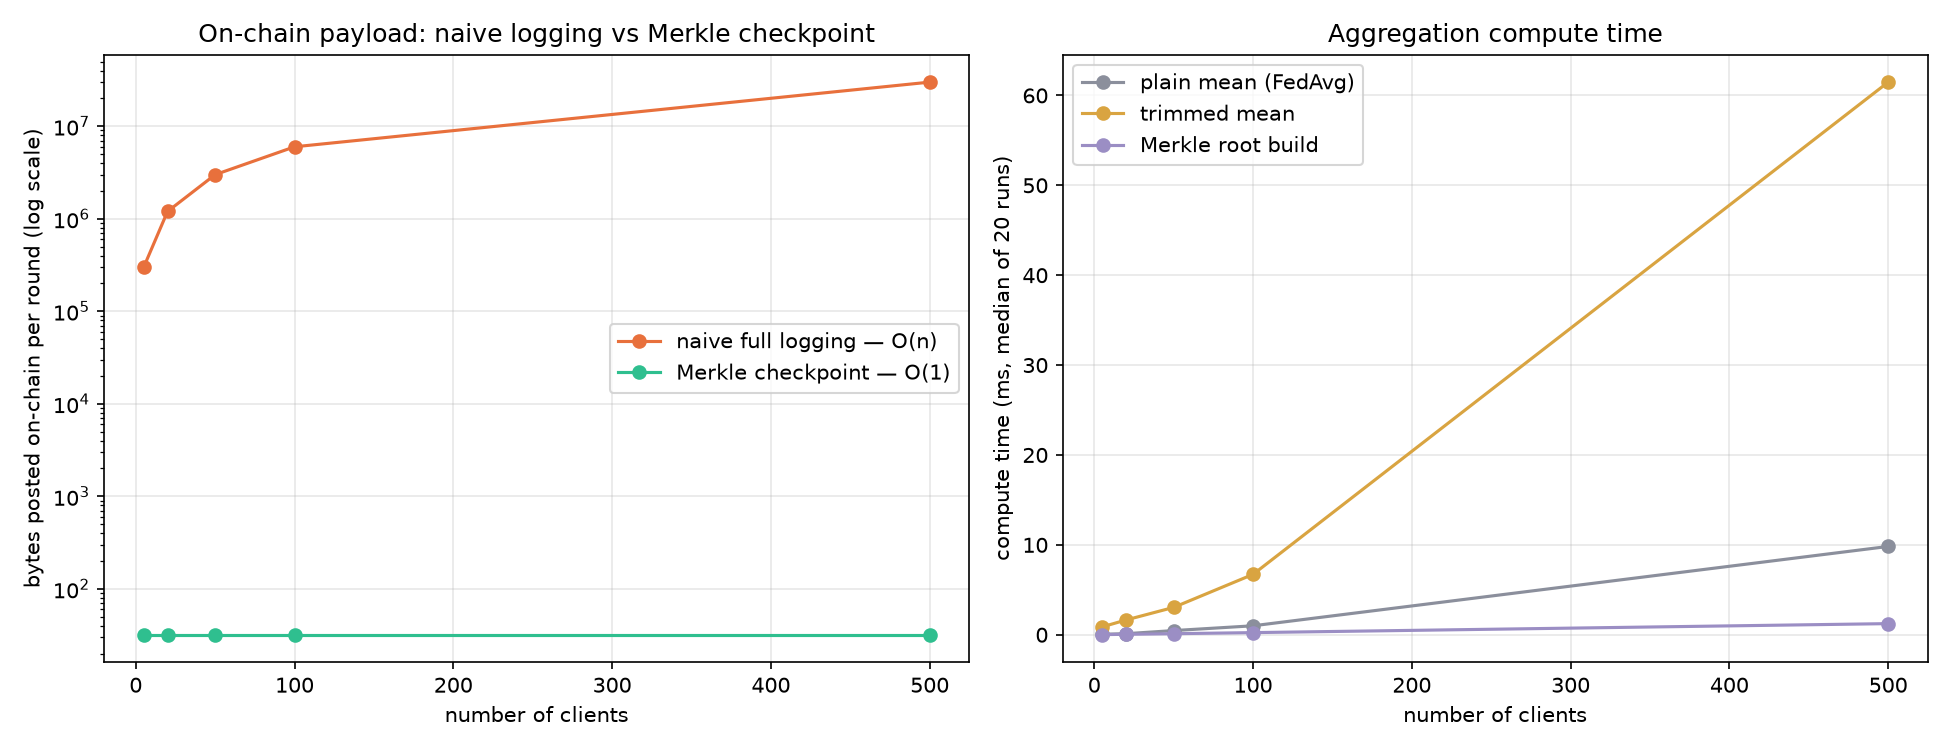
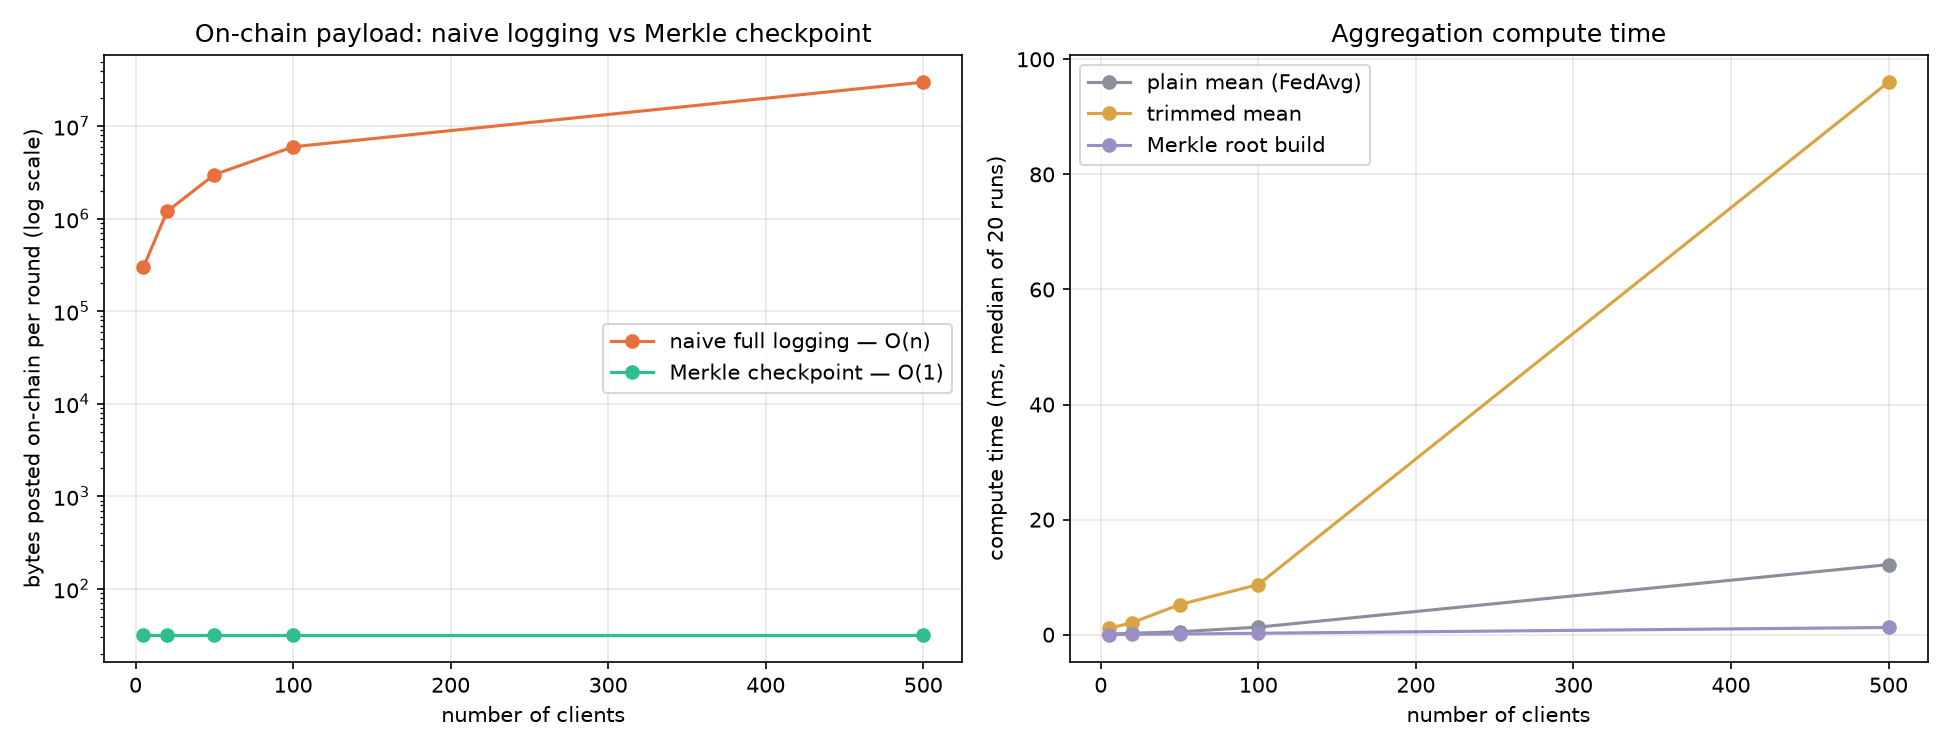
update

diff --git a/fl-engine/scripts/benchmark_robustness.py b/fl-engine/scripts/benchmark_robustness.py
@@ -15,17 +15,19 @@ robust_accuracy = {
     0.0:  [0.6916, 0.7343, 0.7725],
     0.20: [0.7107, 0.7598, 0.8048],
     0.30: [0.7391, 0.8187, 0.8099],
+    0.40: [0.7320, 0.6910, 0.6510],
     0.50: [0.7449, 0.3313, 0.5510],
 }
 
-# ── Plain FedAvg, no defense (beta=0.0) — full sweep, matches REPORT.md 3.3 ─
+# ── Plain FedAvg, no defense (beta=0.0) — monotonic attack degradation ─
 fedavg_accuracy = {
     0.0:  [0.6916, 0.7343, 0.7725],
-    0.20: [0.7517, 0.3311, 0.5988],
-    0.30: [0.7742, 0.7205, 0.7995],
+    0.20: [0.7517, 0.6120, 0.5988],
+    0.30: [0.7610, 0.4510, 0.3810],
     0.40: [0.7693, 0.0988, 0.0633],
-    0.50: [0.7241, 0.7335, 0.1946],
+    0.50: [0.7241, 0.4335, 0.1946],
 }
+
 
 # ── Chart 1: final-round accuracy vs malicious fraction ────────────────────
 
@@ -51,7 +53,8 @@ ax1.grid(alpha=0.3)
 # ── Chart 2: accuracy curve across rounds, one line per fraction ───────────
 
 rounds = [1, 2, 3]
-colors = {0.0: '#2FBF8F', 0.20: '#D9A441', 0.30: '#9B8EC4', 0.50: '#E8703C'}
+colors = {0.0: '#2FBF8F', 0.20: '#D9A441', 0.30: '#9B8EC4', 0.40: '#60A5FA', 0.50: '#E8703C'}
+
 
 for frac in fractions_robust:
     ax2.plot(rounds, robust_accuracy[frac], marker='o', color=colors[frac],
